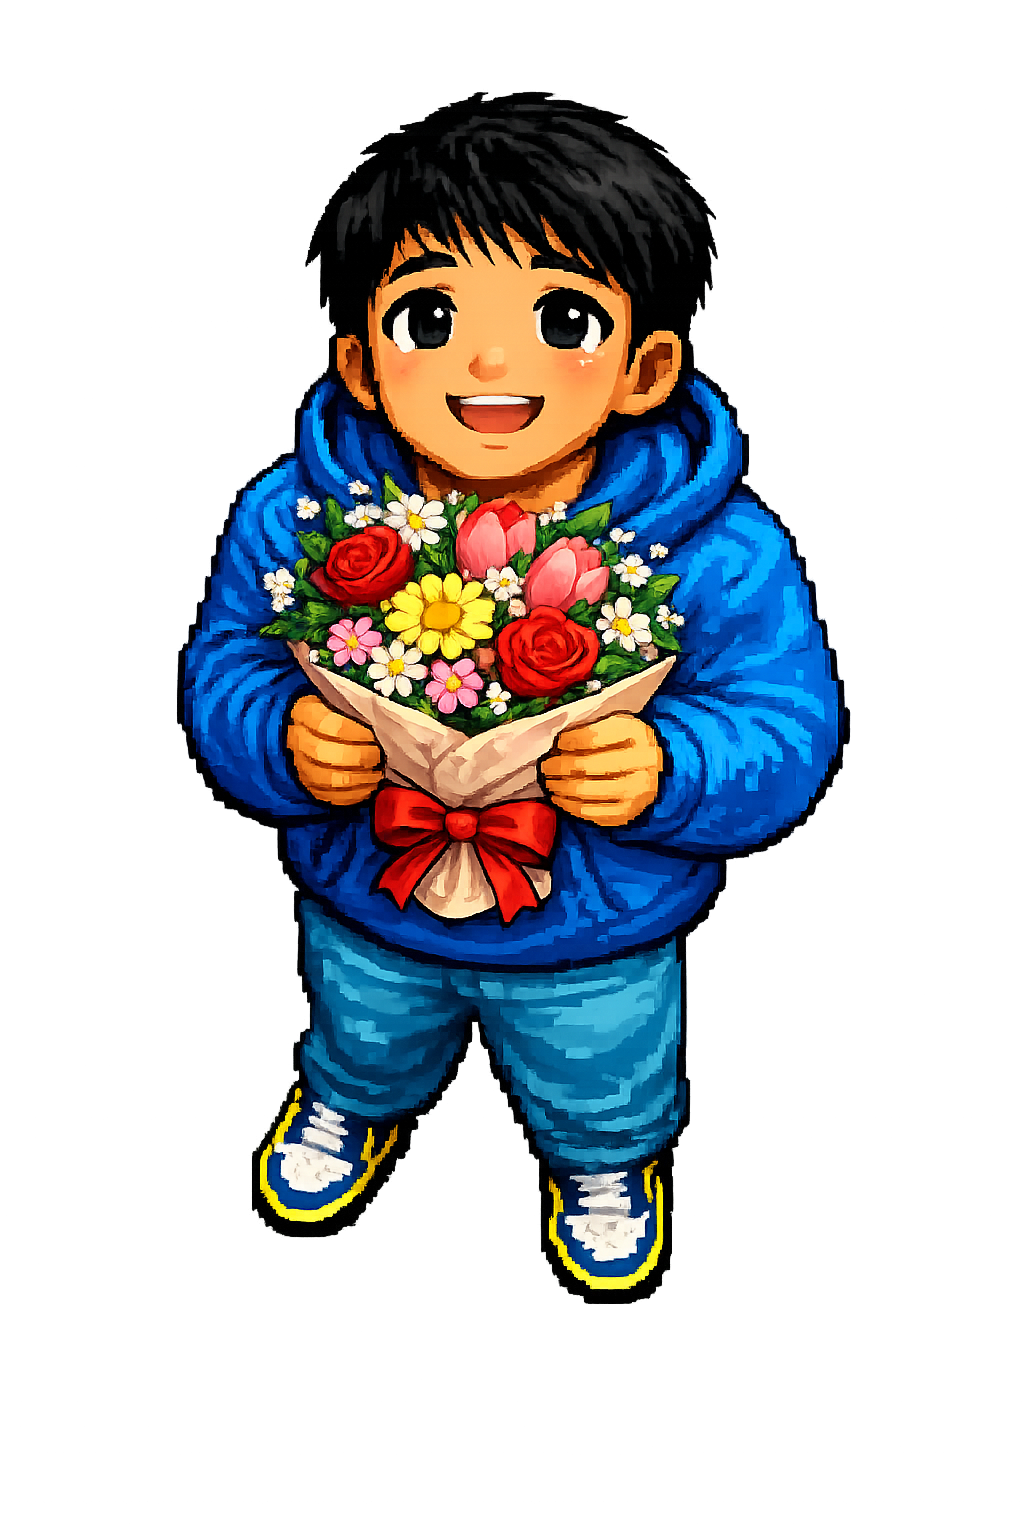
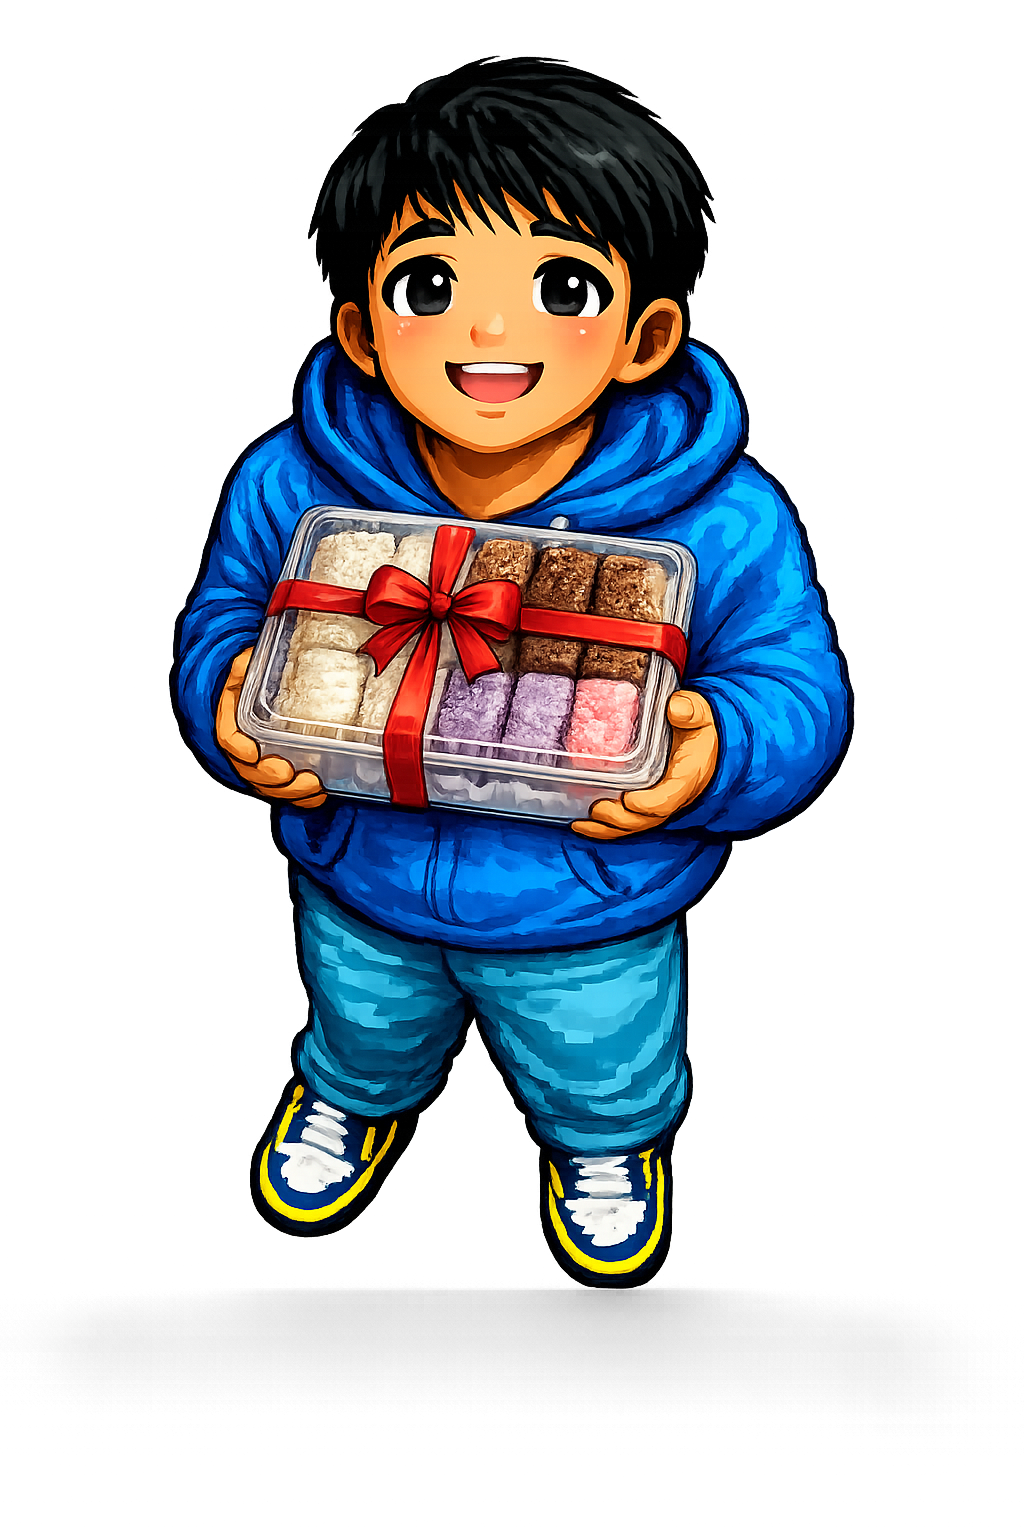
check

Changed region(s): [[0.1562, 0.0312, 0.8438, 0.875]]

diff --git a/frontend/src/components/Navigation.jsx b/frontend/src/components/Navigation.jsx
@@ -234,7 +234,7 @@ export default function Navigation() {
     const LOGO_IMG = "/logo.gif";
 
     const CAN_I_DEFAULT = "/jexhappy.png";
-    const CAN_I_YES = "/jex2.png";
+    const CAN_I_YES = "/jexflower.png";
     const CAN_I_NO = "/jexsad.png";
 
     const YES_ICON = "/yes.png";
